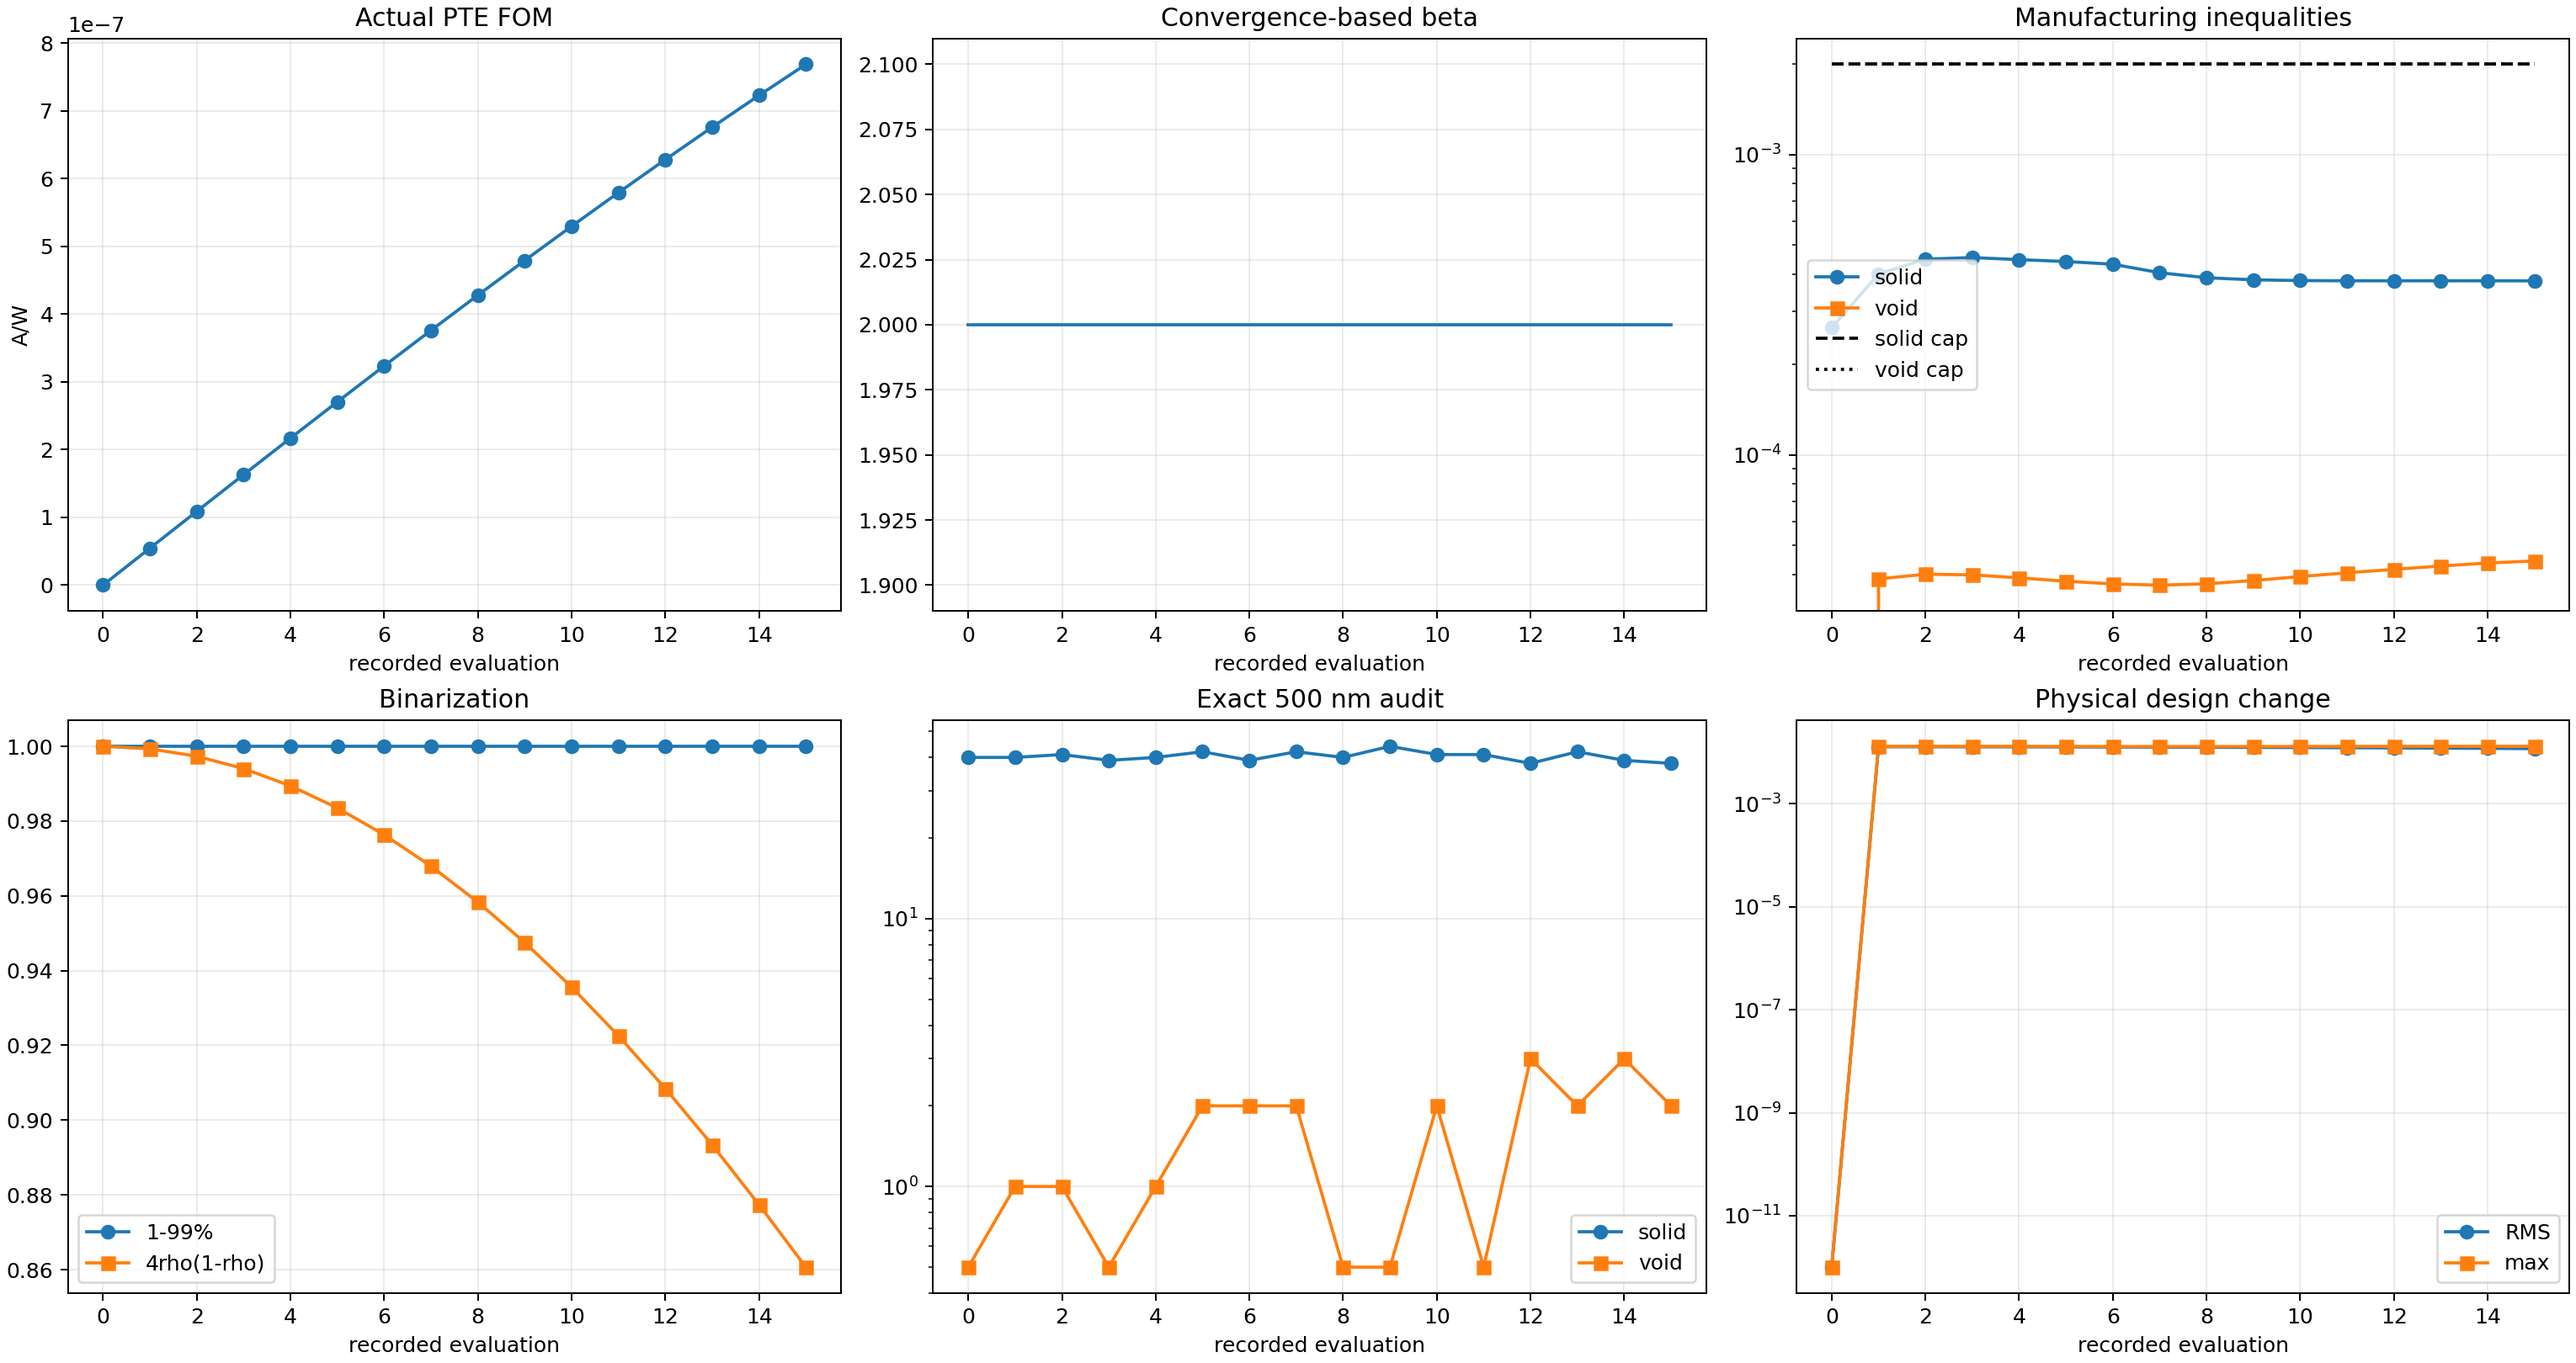
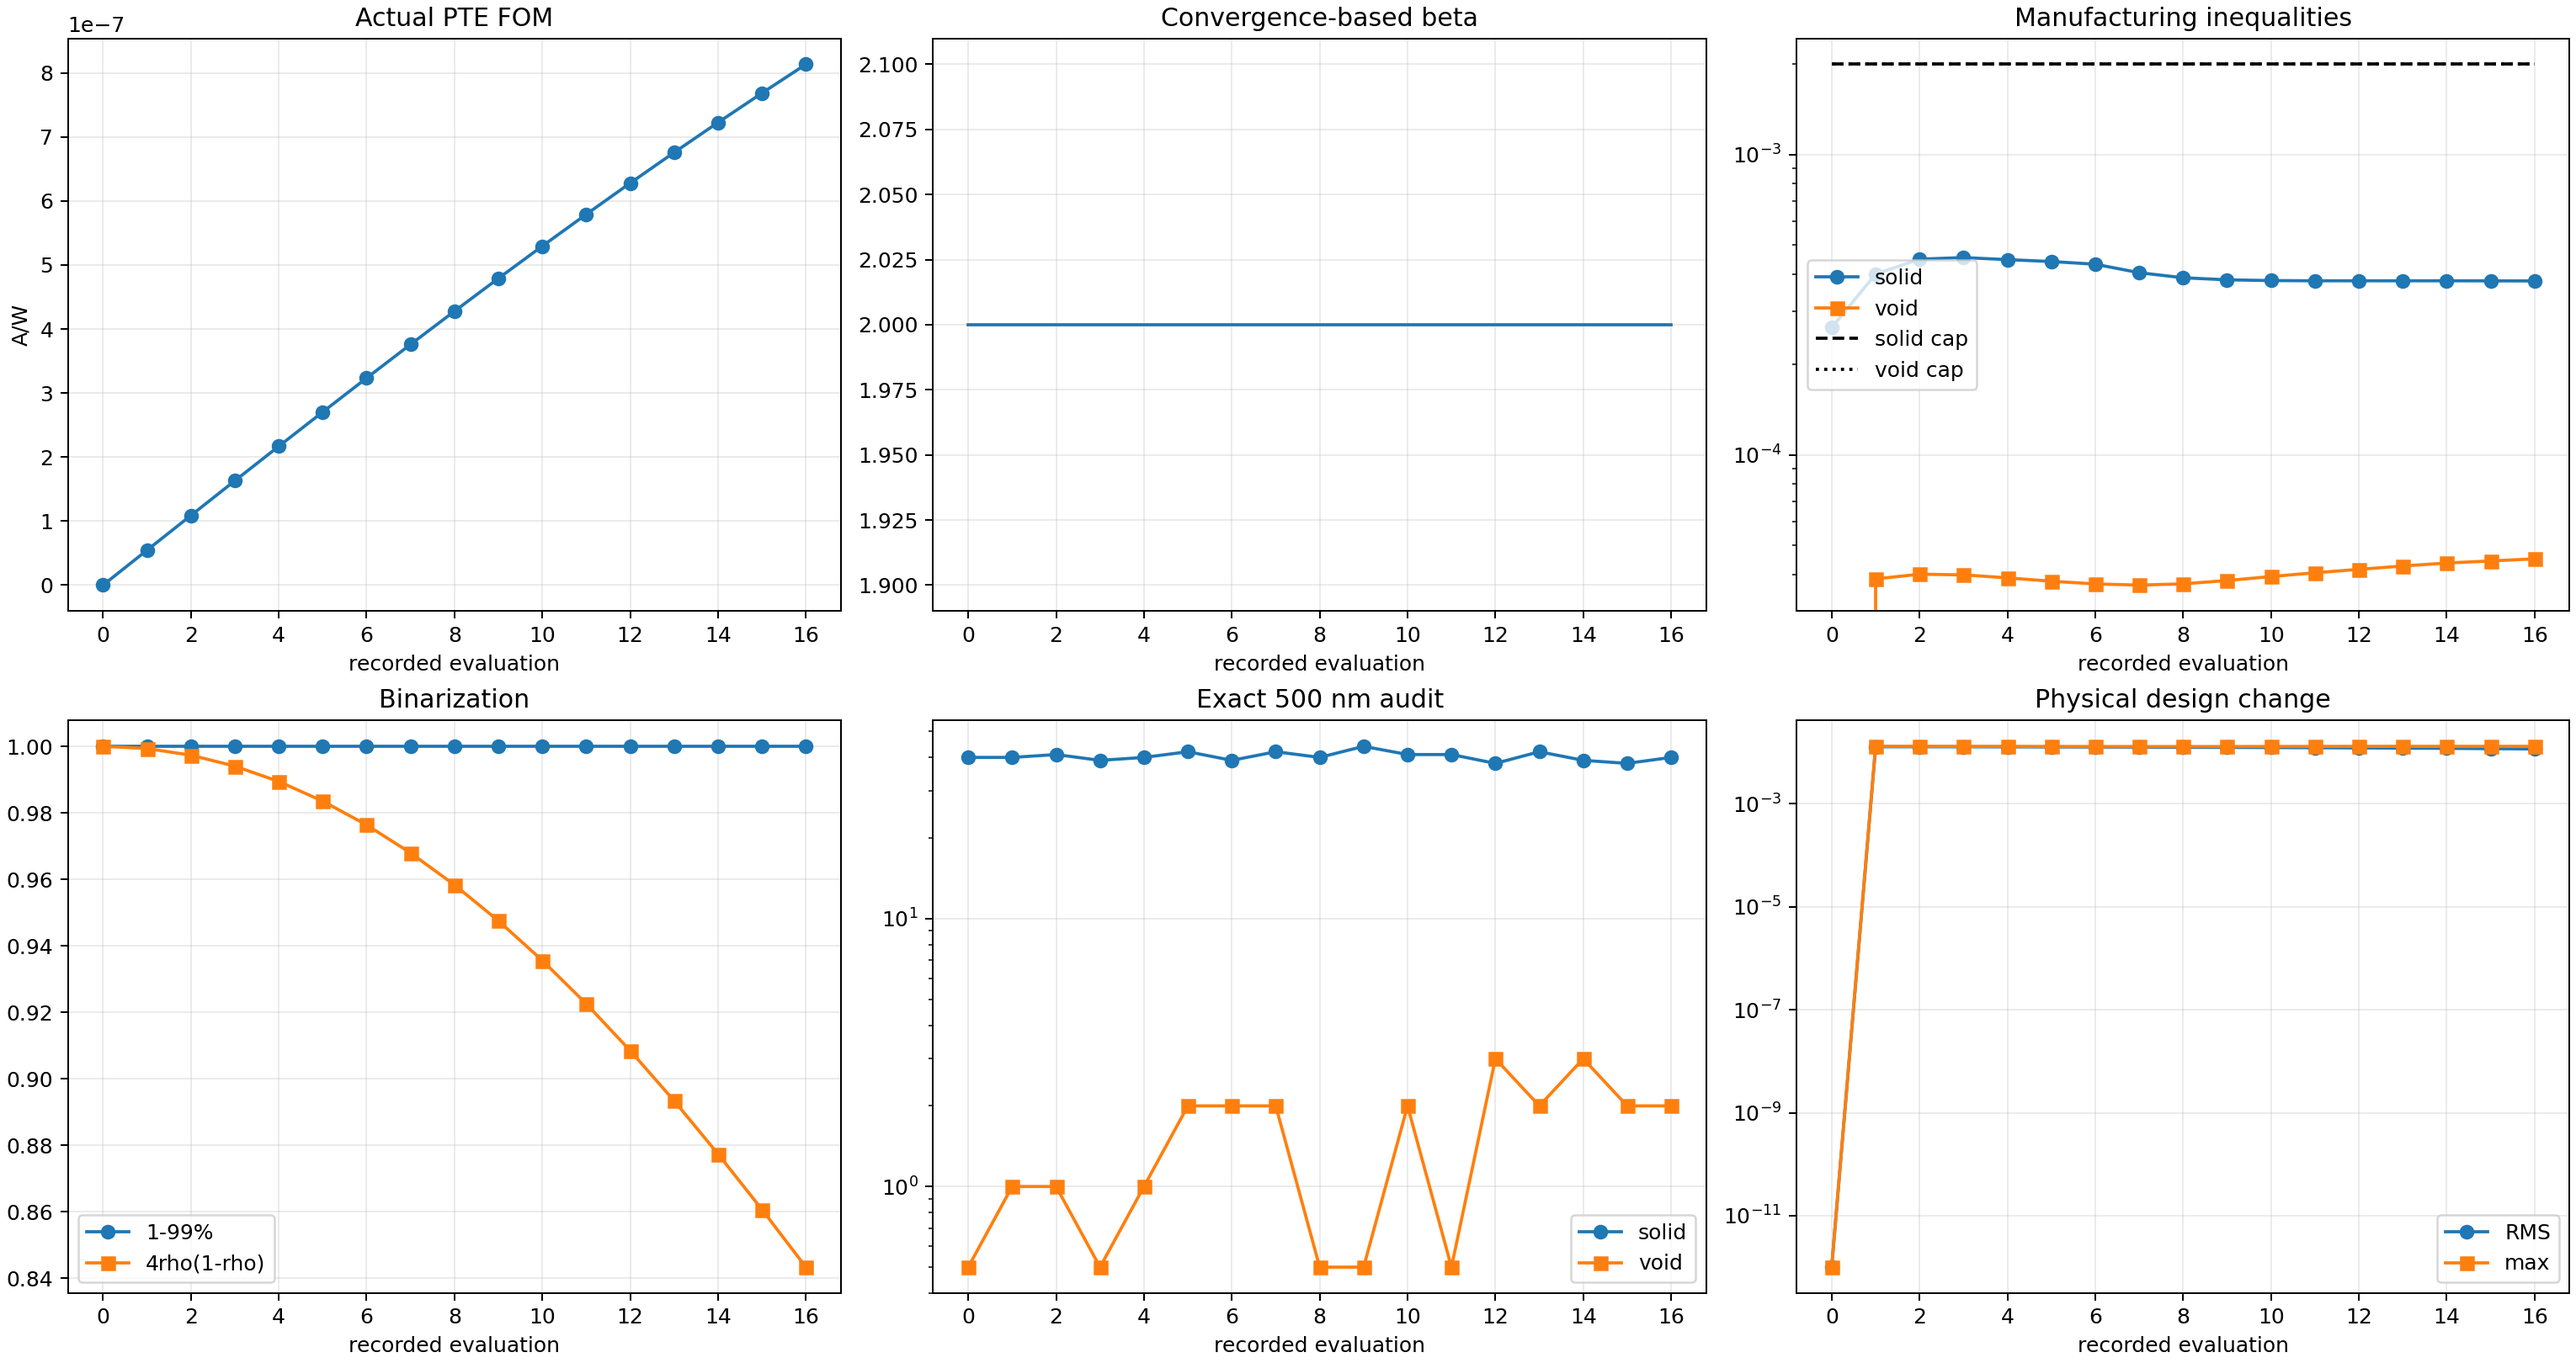
Record Run 005 run009_Ea_uniform_b002_s016_g016_accepted_mma

diff --git a/photothermal_pte/optimization_runs/run_009_uniform_Ea_from_scratch/results/OPTIMIZATION_REPORT.md b/photothermal_pte/optimization_runs/run_009_uniform_Ea_from_scratch/results/OPTIMIZATION_REPORT.md
@@ -2,12 +2,12 @@
 
 Status: `RUNNING_EXACT_UNIFORM_EA_OBJECTIVE_FIRST_OPTIMIZATION`
 
-Current stage: beta=2, accepted stage iteration=15, global iteration=15.
+Current stage: beta=2, accepted stage iteration=16, global iteration=16.
 
 Constraint contract: `soft_disk_opening_500nm_from_iteration_zero_v5`.
 
-Actual FOM: `7.684157763620e-07 A/W`. Fixed-cap solid/void constraints: `3.799583e-04` / `4.435432e-05` with caps `2.000000e-03` / `2.000000e-03`.
+Actual FOM: `8.133895942118e-07 A/W`. Fixed-cap solid/void constraints: `3.797847e-04` / `4.507194e-05` with caps `2.000000e-03` / `2.000000e-03`.
 
-Exact 500 nm bad cells: solid `38`, void `2`. Stage convergence: `False` (recent FOM/density changes have not plateaued).
+Exact 500 nm bad cells: solid `40`, void `2`. Stage convergence: `False` (recent FOM/density changes have not plateaued).
 
 Beta advances only after the stage FOM/density plateau. The run is not complete until the projected-binary and exact 500 nm gates pass and a fresh thresholded-binary GPU/CUDA evaluation succeeds.
